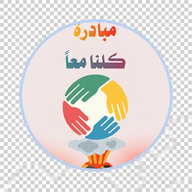
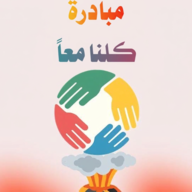
Update competition and gallery pages with new features and improvements
Improve competition submissions by adding polling, a refresh button, and teacher-specific answer visibility. Enhance the gallery with pagination, a "load more" button, and real-time updates. Adjust the AI tutor function to force Arabic text in images when the prompt contains Arabic characters. Also, update various icon files.

Replit-Commit-Author: Agent
Replit-Commit-Session-Id: 5e005adf-161d-4177-8390-8cb283ca47af
Replit-Commit-Checkpoint-Type: full_checkpoint
Replit-Commit-Event-Id: 4ddf73d3-7d86-4f18-a8f3-e613d1706392
Replit-Commit-Screenshot-Url: https://storage.googleapis.com/screenshot-production-us-central1/c90b1cfa-8cd8-4773-a310-584383b9ab30/5e005adf-161d-4177-8390-8cb283ca47af/UMVXHfg
Replit-Helium-Checkpoint-Created: true

diff --git a/src/routes/gallery.tsx b/src/routes/gallery.tsx
@@ -42,17 +42,30 @@ function GalleryPage() {
     });
   }, [navigate]);
 
-  const load = async () => {
+  const [offset, setOffset] = useState(0);
+  const PAGE = 30;
+
+  const load = async (reset = true) => {
+    const off = reset ? 0 : offset;
     const { data } = await supabase.from("messages").select("*").eq("category", "gallery")
-      .order("created_at", { ascending: false }).limit(1000);
+      .order("created_at", { ascending: false }).range(off, off + PAGE - 1);
     const list = (data || []) as Item[];
-    setItems(list);
+    if (reset) {
+      setItems(list);
+      setOffset(PAGE);
+    } else {
+      setItems((prev) => {
+        const ids = new Set(prev.map((i) => i.id));
+        return [...prev, ...list.filter((i) => !ids.has(i.id))];
+      });
+      setOffset(off + PAGE);
+    }
     const ids = Array.from(new Set(list.map((i) => i.user_id)));
     if (ids.length) {
       const { data: profs } = await supabase.from("profiles").select("id, display_name").in("id", ids);
       const map: Record<string, Profile> = {};
       profs?.forEach((p) => (map[p.id] = p));
-      setProfiles(map);
+      setProfiles((prev) => ({ ...prev, ...map }));
     }
   };
 
@@ -72,7 +85,9 @@ function GalleryPage() {
         setItems((prev) => prev.filter((i) => i.id !== (payload.old as any).id));
       })
       .subscribe();
-    return () => { supabase.removeChannel(ch); };
+    const poll = setInterval(() => load(true), 30000);
+    return () => { supabase.removeChannel(ch); clearInterval(poll); };
+  // eslint-disable-next-line react-hooks/exhaustive-deps
   }, []);
 
   const onPick = (e: React.ChangeEvent<HTMLInputElement>) => {
@@ -107,6 +122,7 @@ function GalleryPage() {
       if (error) throw error;
       toast.success("تم النشر ✨");
       setFile(null); setPreview(null); setCaption("");
+      load(true);
     } catch (e: any) {
       toast.error(e.message || "فشل النشر");
     } finally { setUploading(false); }
@@ -222,6 +238,13 @@ function GalleryPage() {
             })}
           </div>
         )}
+        {items.length >= PAGE && (
+          <div className="flex justify-center mt-6">
+            <button onClick={() => load(false)} className="px-6 py-2.5 rounded-xl border-2 border-border hover:bg-secondary font-bold text-sm">
+              تحميل المزيد
+            </button>
+          </div>
+        )}
       </main>
 
       {openItem && uid && (
@@ -290,6 +313,7 @@ function ItemModal({ item, uid, isAdmin, authorName, onClose }: { item: Item; ui
     setSending(false);
     if (error) return toast.error(`فشل الإرسال: ${error.message}`);
     setText("");
+    loadComments();
   };
 
   const delComment = async (id: string) => {

diff --git a/src/routes/competitions.tsx b/src/routes/competitions.tsx
@@ -702,7 +702,8 @@ function SubmissionsList({ comp, uid, isTeacher }: { comp: Comp; uid: string; is
     const ch = supabase.channel(`comp-subs-${comp.id}`)
       .on("postgres_changes", { event: "*", schema: "public", table: "competition_submissions", filter: `competition_id=eq.${comp.id}` },
         () => loadSubs()).subscribe();
-    return () => { supabase.removeChannel(ch); };
+    const poll = setInterval(() => loadSubs(), 20000);
+    return () => { supabase.removeChannel(ch); clearInterval(poll); };
   // eslint-disable-next-line react-hooks/exhaustive-deps
   }, [comp.id]);
 
@@ -717,7 +718,10 @@ function SubmissionsList({ comp, uid, isTeacher }: { comp: Comp; uid: string; is
 
   return (
     <div className="bg-card rounded-3xl border border-border p-6">
-      <h3 className="font-bold mb-4 flex items-center gap-2"><Crown className="h-5 w-5 text-amber-500" /> المتسابقون ({subs.length})</h3>
+      <div className="flex items-center justify-between mb-4">
+        <h3 className="font-bold flex items-center gap-2"><Crown className="h-5 w-5 text-amber-500" /> المتسابقون ({subs.length})</h3>
+        <button onClick={loadSubs} className="text-xs px-3 py-1.5 rounded-lg bg-secondary hover:bg-secondary/70 font-bold">↻ تحديث</button>
+      </div>
       {subs.length === 0 ? (
         <div className="text-center text-sm text-muted-foreground py-6">لا توجد مشاركات بعد</div>
       ) : (
@@ -738,7 +742,7 @@ function SubmissionsList({ comp, uid, isTeacher }: { comp: Comp; uid: string; is
                 )}
               </div>
               {s.image_url && <img src={s.image_url} alt="" className="w-full max-h-56 object-contain rounded-xl bg-background" />}
-              {!isMulti && s.answer && s.answer !== "—" && <div className="text-sm bg-background rounded-xl p-2"><b>الإجابة:</b> {s.answer}</div>}
+              {!isMulti && isTeacher && s.answer && s.answer !== "—" && <div className="text-sm bg-background rounded-xl p-2"><b>الإجابة:</b> {s.answer}</div>}
               {s.link_url && (
                 <a href={s.link_url} target="_blank" rel="noreferrer" className="inline-flex items-center gap-1 text-xs text-blue-600 hover:underline break-all">
                   <Link2 className="h-3 w-3" /> {s.link_url}
@@ -804,6 +808,7 @@ function CompetitionComments({ competitionId, uid }: { competitionId: string; ui
     const { error } = await supabase.from("competition_comments").insert({ competition_id: competitionId, user_id: uid, content: text.trim() });
     if (error) return toast.error("فشل الإرسال: " + error.message);
     setText("");
+    load();
   };
 
   const del = async (id: string) => {

diff --git a/supabase/functions/ai-tutor/index.ts b/supabase/functions/ai-tutor/index.ts
@@ -47,7 +47,12 @@ serve(async (req) => {
 
       const last = messages?.[messages.length - 1];
       const userPrompt = typeof last?.content === "string" ? last.content : "صورة تعليمية للرياضيات";
-      const prompt = userPrompt + WATERMARK_INSTRUCTION;
+      // If the prompt contains Arabic characters, force all text in the image to be Arabic
+      const hasArabic = /[\u0600-\u06FF]/.test(userPrompt);
+      const arabicPrefix = hasArabic
+        ? "اكتب جميع النصوص والأرقام والكلمات داخل الصورة باللغة العربية الفصحى فقط. لا تكتب أي كلمة بالإنجليزية أو الحروف اللاتينية. "
+        : "";
+      const prompt = arabicPrefix + userPrompt + WATERMARK_INSTRUCTION;
       const r = await fetch("https://ai.gateway.lovable.dev/v1/chat/completions", {
         method: "POST",
         headers: { Authorization: `Bearer ${KEY}`, "Content-Type": "application/json" },